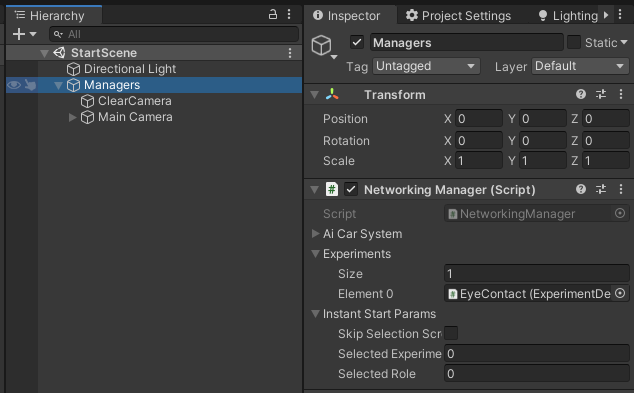
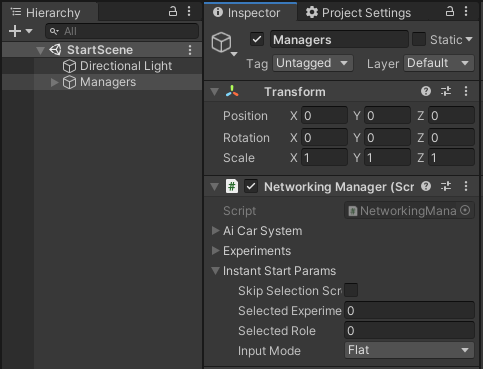
minor readme changes

Changed region(s): [[0.0, 0.0, 1.0, 1.0], [0.9938, 0.0, 1.0, 0.0298], [0.3416, 0.0298, 0.3727, 0.0596]]

diff --git a/README.md b/README.md
@@ -63,6 +63,11 @@ If the user wants to prepare a build that runs simulation instantly with a selec
 - _SelectedExperiment_: int variable which indicates a zero-based index of a selected experiment in _Experiments_ list (field in NetworkingManager component).
 - _SelectedRole_: int variable which indicates a zero-based index of a selected role in _Roles_ list (field in ExperimentDefinition component) of a selected experiment prefab.
 - _SkipSelectionScreen_: boolean variable, that if set to true makes the simulator run (as host) a selected experiment (with a selected role) right after the application is run - skipping experiment and role selection screen.
+- _InputMode_: enum variable, that selects the display and controller pair for the instant start build. 
+Available values are:
+- _Flat_: use a flat-screen to display simulation and mouse&keyboard/gamepad/steering wheel to control it.
+- _VR_: use virtual reality headset to display simulation and mouse&keyboard/gamepad/steering wheel to control it.  
+- _Suite_: use virtual reality headset to display simulation and XSense suite to control it (only pedestrian avatar).
 ![](ReadmeFiles/Instant.png)
 
 ## Configuration
@@ -94,7 +99,7 @@ _ExperimentDefinition_ component defines the following fields:
 - _Car Spawners_: references to game objects spawning non-player controlled cars
 
 _Points of interest_ is a list of _Transform_ references.
-_CarSpawners_ list references game objects containing component inheriting from _CarSpawnerBase_. It defines, with overridden _IEnumerator SpawnCoroutine()_  method, spawn sequence (see _TestSyncedCarSpawner_ for reference implementation). Car prefabs spawned by the coroutine with _AICar Spawn(AICar prefab, bool yielding)_ method must be one of the referenced prefabs in _AICarSystem_ list on _NetworkManager_ component. 
+_CarSpawners_ list references game objects containing component inheriting from _CarSpawnerBase_. It defines, with overridden _IEnumerator SpawnCoroutine()_  method, spawn sequence (see _TestSyncedCarSpawner_ for reference implementation). Car prefabs spawned by the coroutine with _AICar Spawn(CarSpawnParams parameters, bool yielding)_ method must be one of the referenced prefabs in _AvatarPrefabDriver_ list on _NetworkManager_ component. 
 
 ### Configuration of agents
 Roles field is a list of _ExperimentRoleDefinition_ struct's defining experiment roles with the following data fields:
@@ -128,7 +133,7 @@ For _Driver_ role following field has to be defined:
 
 #### Configuration of the passenger agent
 For _Passenger_ type of agent following additional fields has to be defined:
-- Car Idx - indicates car prefab that will be spawned for this role. Selected prefab is the one on the indicated index on PlayerSystem lists (for PassengerAvatarPrefabPassenger list)
+- Car Idx - indicates car prefab that will be spawned for this role. Selected prefab is the one on the indicated index on _AvatarPrefabDriver_ list (field on _PlayerSystem_ component)
 - Three _DriverHMI_ fields - define which HMI prefab to spawn on indicated spots
 - _AutonomusPath_ - references game object defining waypoints for the autonomous car via WaypointCirciut component
 
